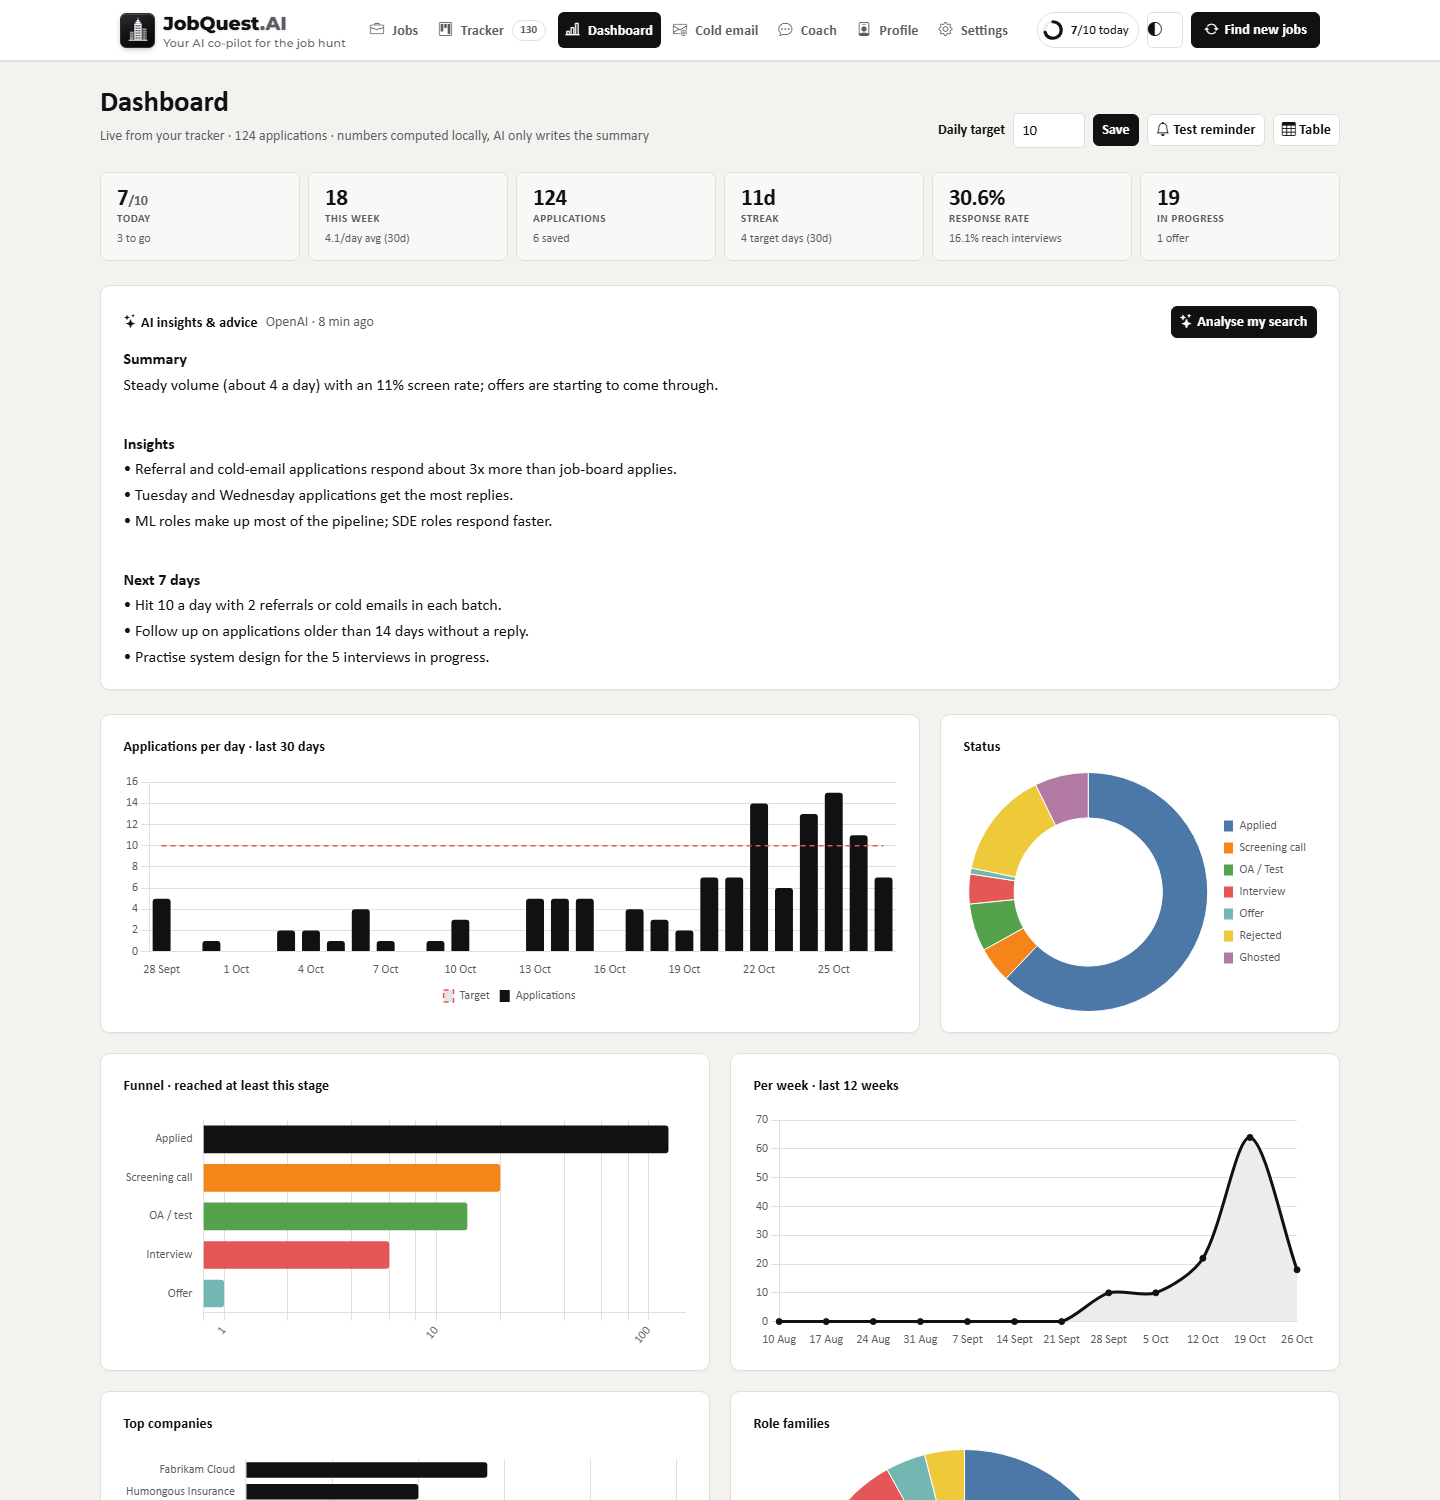
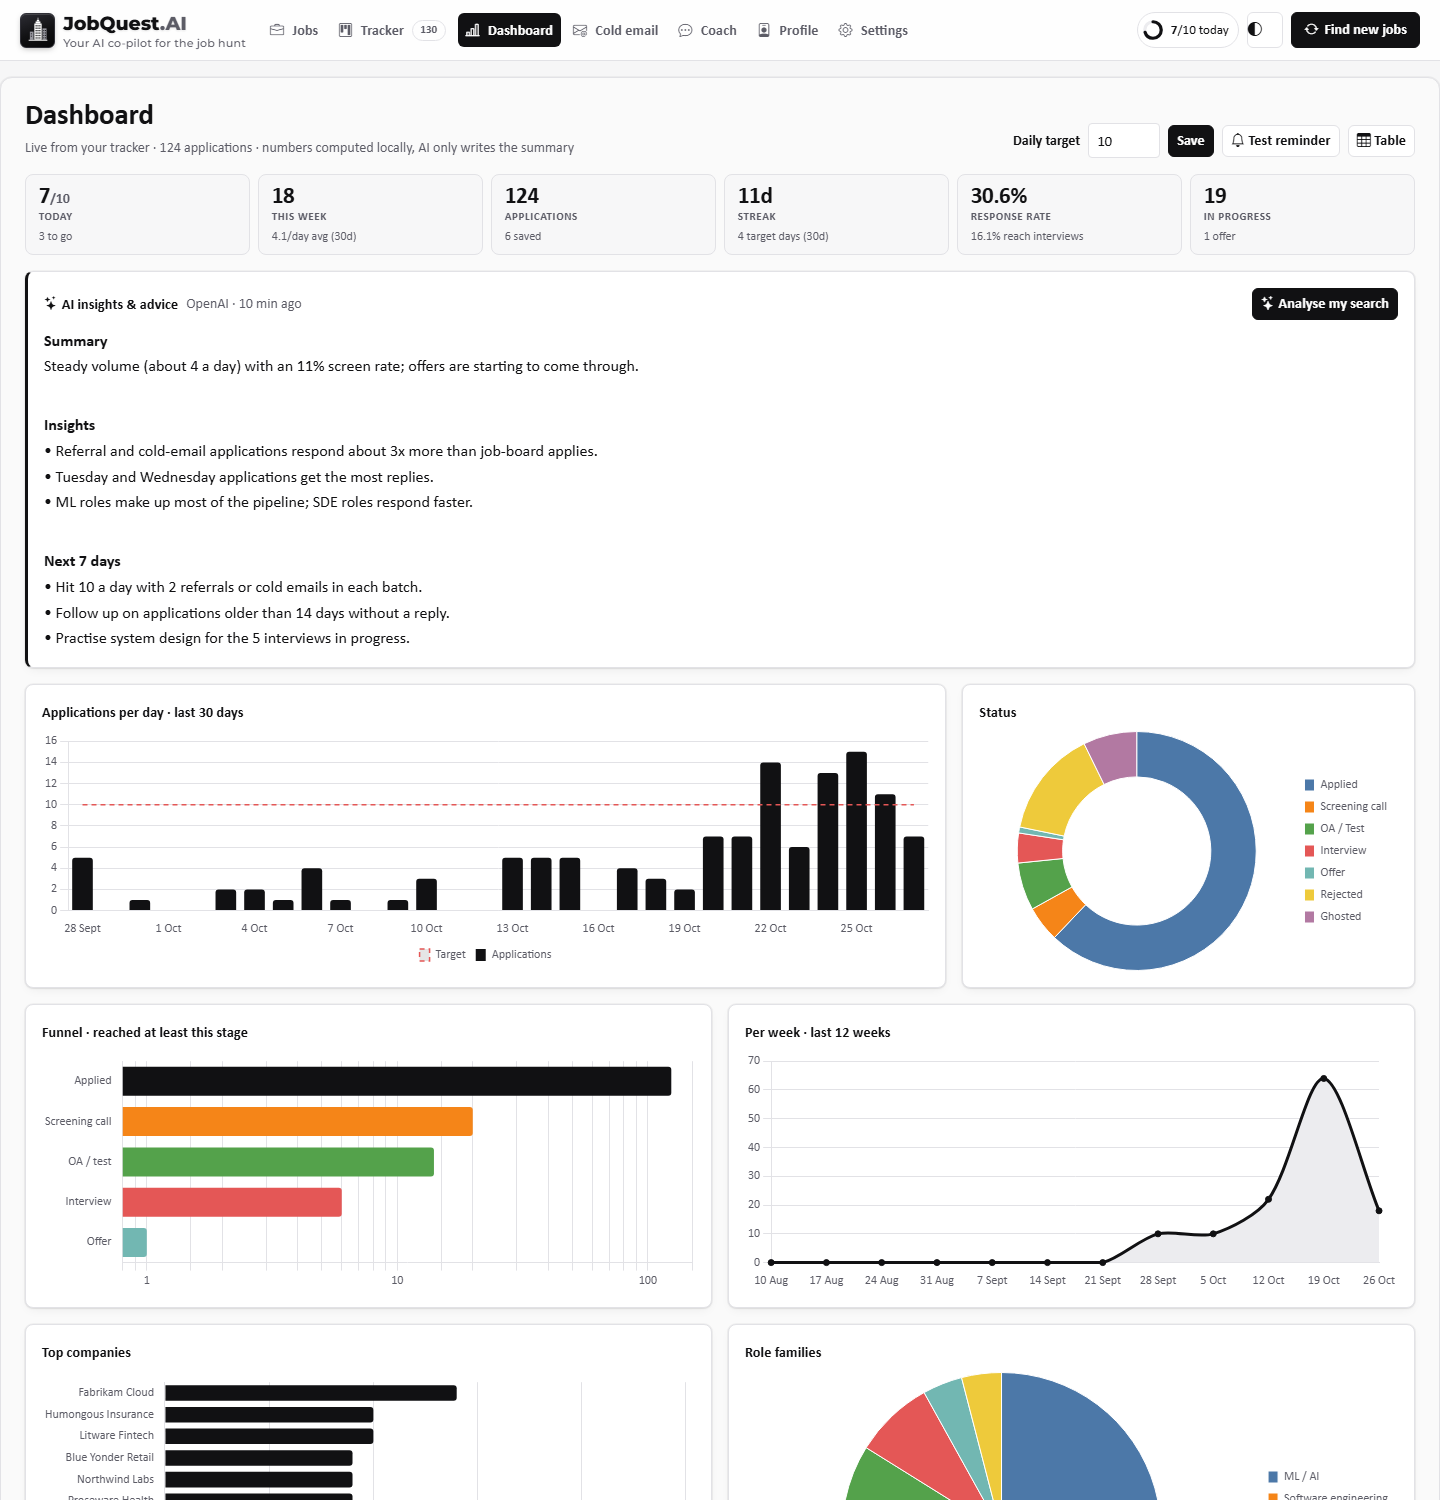
Restore the earlier framed layout; refresh screenshots

diff --git a/jobhunt/static/app.css b/jobhunt/static/app.css
@@ -372,29 +372,3 @@ footer.container-xxl { padding-top: .75rem !important; padding-bottom: .75rem !i
   .target-pill span { display: none; }
 }
 @media (max-width: 991.98px) { .nav-tools { flex-wrap: wrap; } #tabs { flex-wrap: wrap; } }
-
-/* ---- LinkedIn-style breathing room: soft page, separate white cards, generous padding and gaps */
-.container-xxl { max-width: 1240px; }
-[data-skin=light] { --bs-body-bg: #f4f2ee; --bs-body-bg-rgb: 244, 242, 238; --jh-card: #ffffff; --jh-card-2: #f9f8f6; --bs-border-color: #e0dfdc; --jh-nav-bg: rgba(255, 255, 255, .96); }
-main#app { background: transparent; border: 0; box-shadow: none; padding: 0; margin-top: 1.5rem; margin-bottom: 2rem; border-radius: 0; }
-body { --bs-body-line-height: 1.6; }
-.card { border: 1px solid var(--bs-border-color); border-radius: .6rem; box-shadow: 0 1px 2px rgba(0, 0, 0, .04); }
-.card-body { padding: 1.25rem 1.4rem; }
-.card-body.p-3 { padding: 1.25rem 1.4rem !important; }
-.card-body.p-4 { padding: 1.5rem 1.6rem !important; }
-.hero { margin: .25rem 0 1.5rem !important; }
-.hero h1, h1.h3 { margin-bottom: .35rem !important; }
-.row.g-4 { --bs-gutter-x: 1.5rem; --bs-gutter-y: 1.5rem; }
-.row.g-3 { --bs-gutter-x: 1.25rem; --bs-gutter-y: 1.25rem; }
-#app > .card, #app > .accordion, #app > .row, #app > .alert { margin-bottom: 1.5rem !important; }
-.card.mb-3, .accordion.mb-3 { margin-bottom: 1.5rem !important; }
-.job-card { margin-bottom: .75rem !important; }
-.job-card .card-body { padding: 1rem 1.15rem; }
-.detail .sec { padding-top: 1.25rem; margin-top: 1.25rem; }
-.tracker-table th, .tracker-table td { padding: .6rem .75rem; }
-.tile, .stat { padding: .75rem 1rem !important; }
-.prov { padding: .75rem 1rem; }
-.chart-title { margin-bottom: .85rem; }
-.form-label { margin-bottom: .35rem; }
-.app-nav { background: var(--jh-nav-bg); box-shadow: 0 1px 0 var(--bs-border-color); }
-footer.container-xxl { border-top: 0 !important; padding-top: .5rem !important; }
